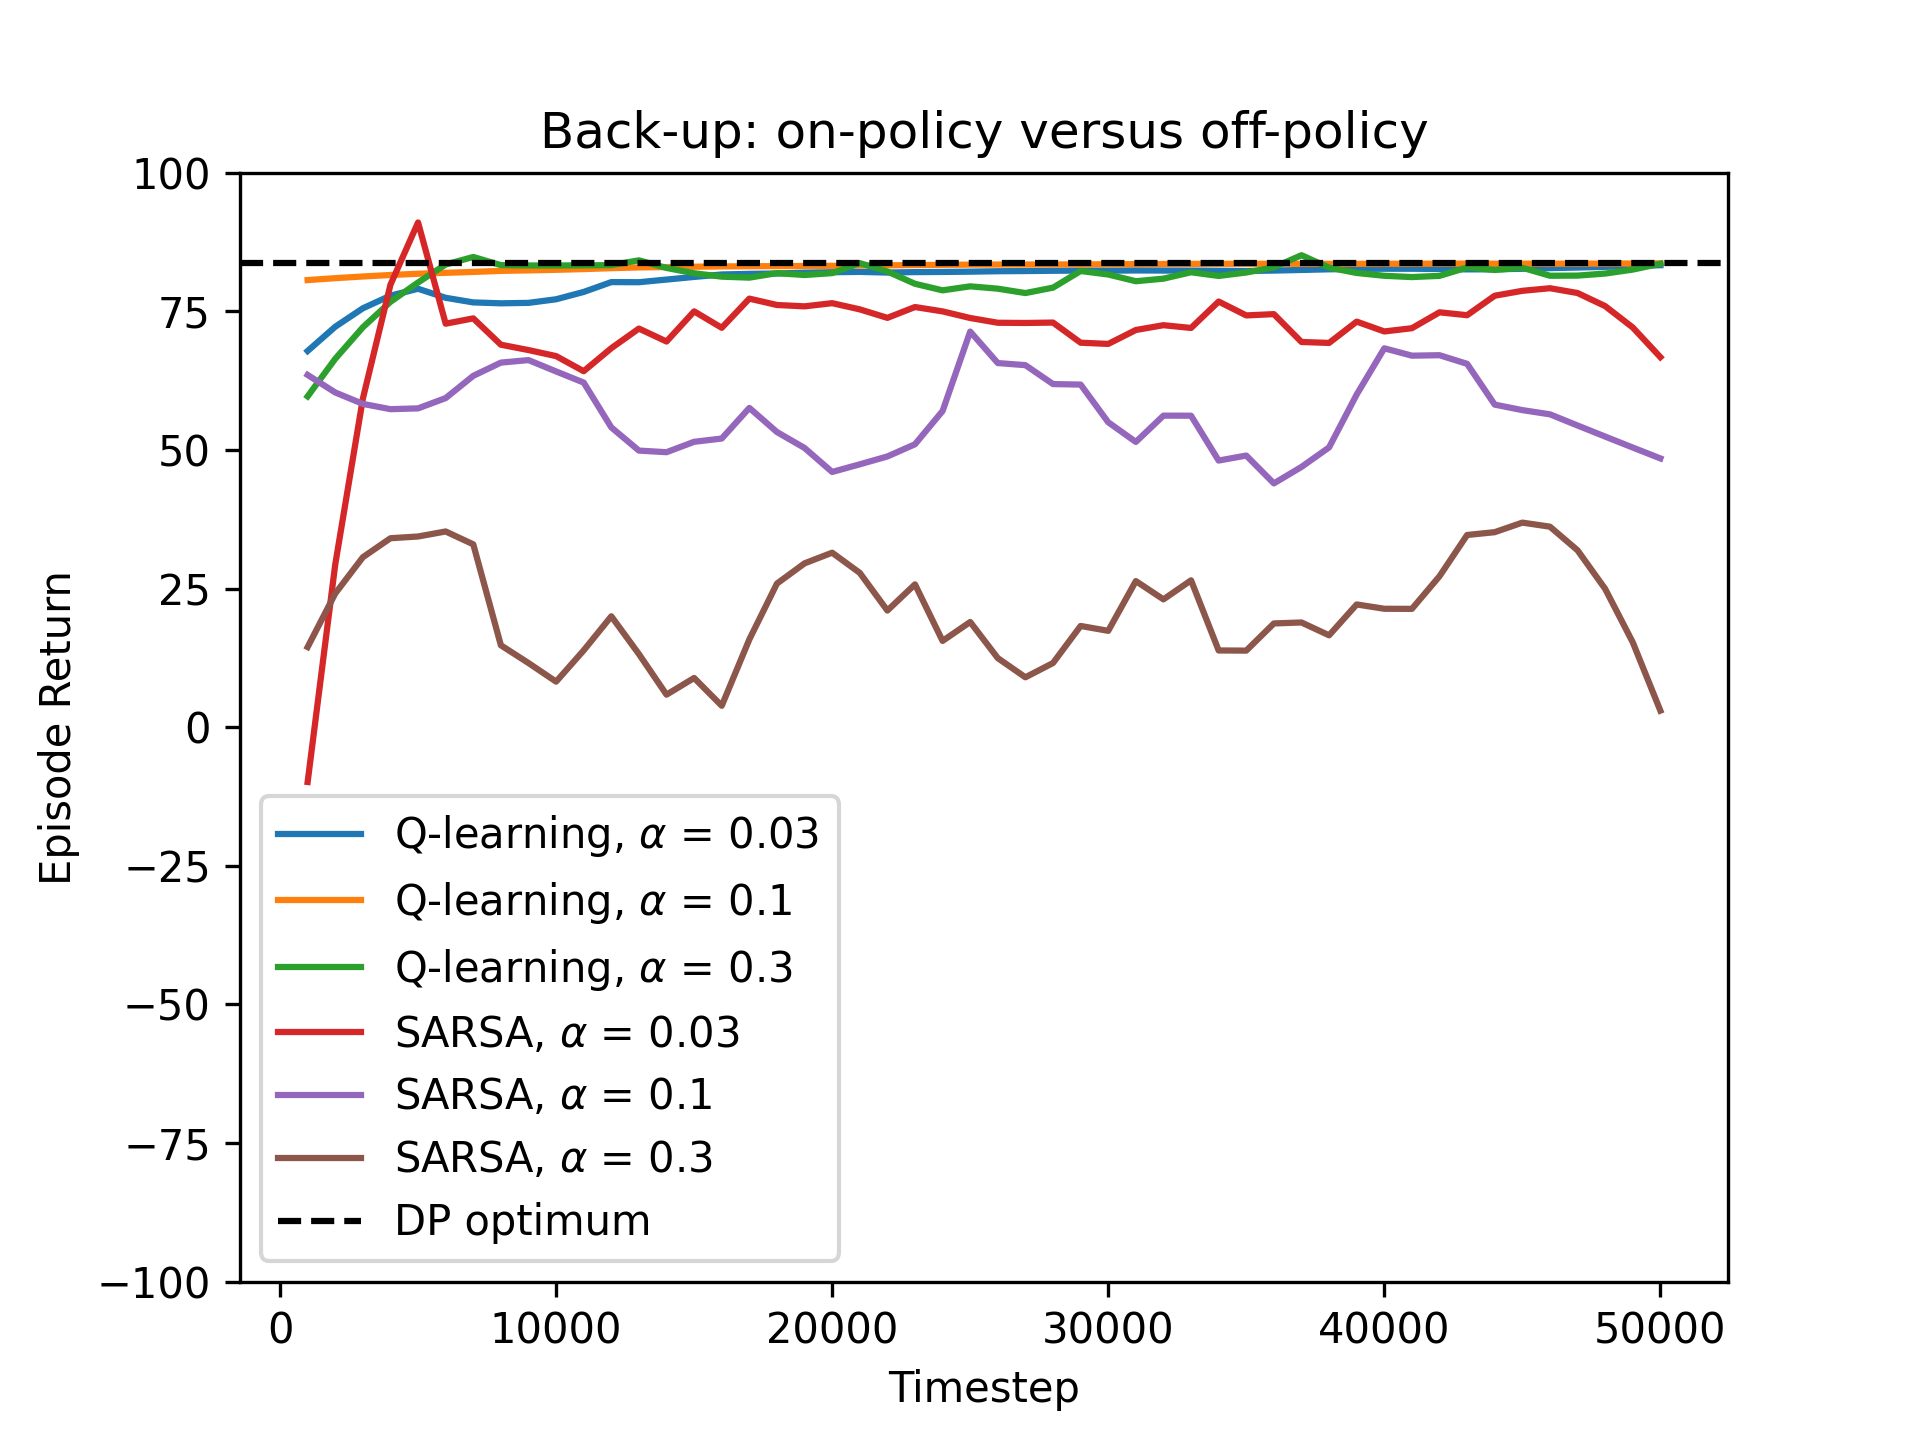
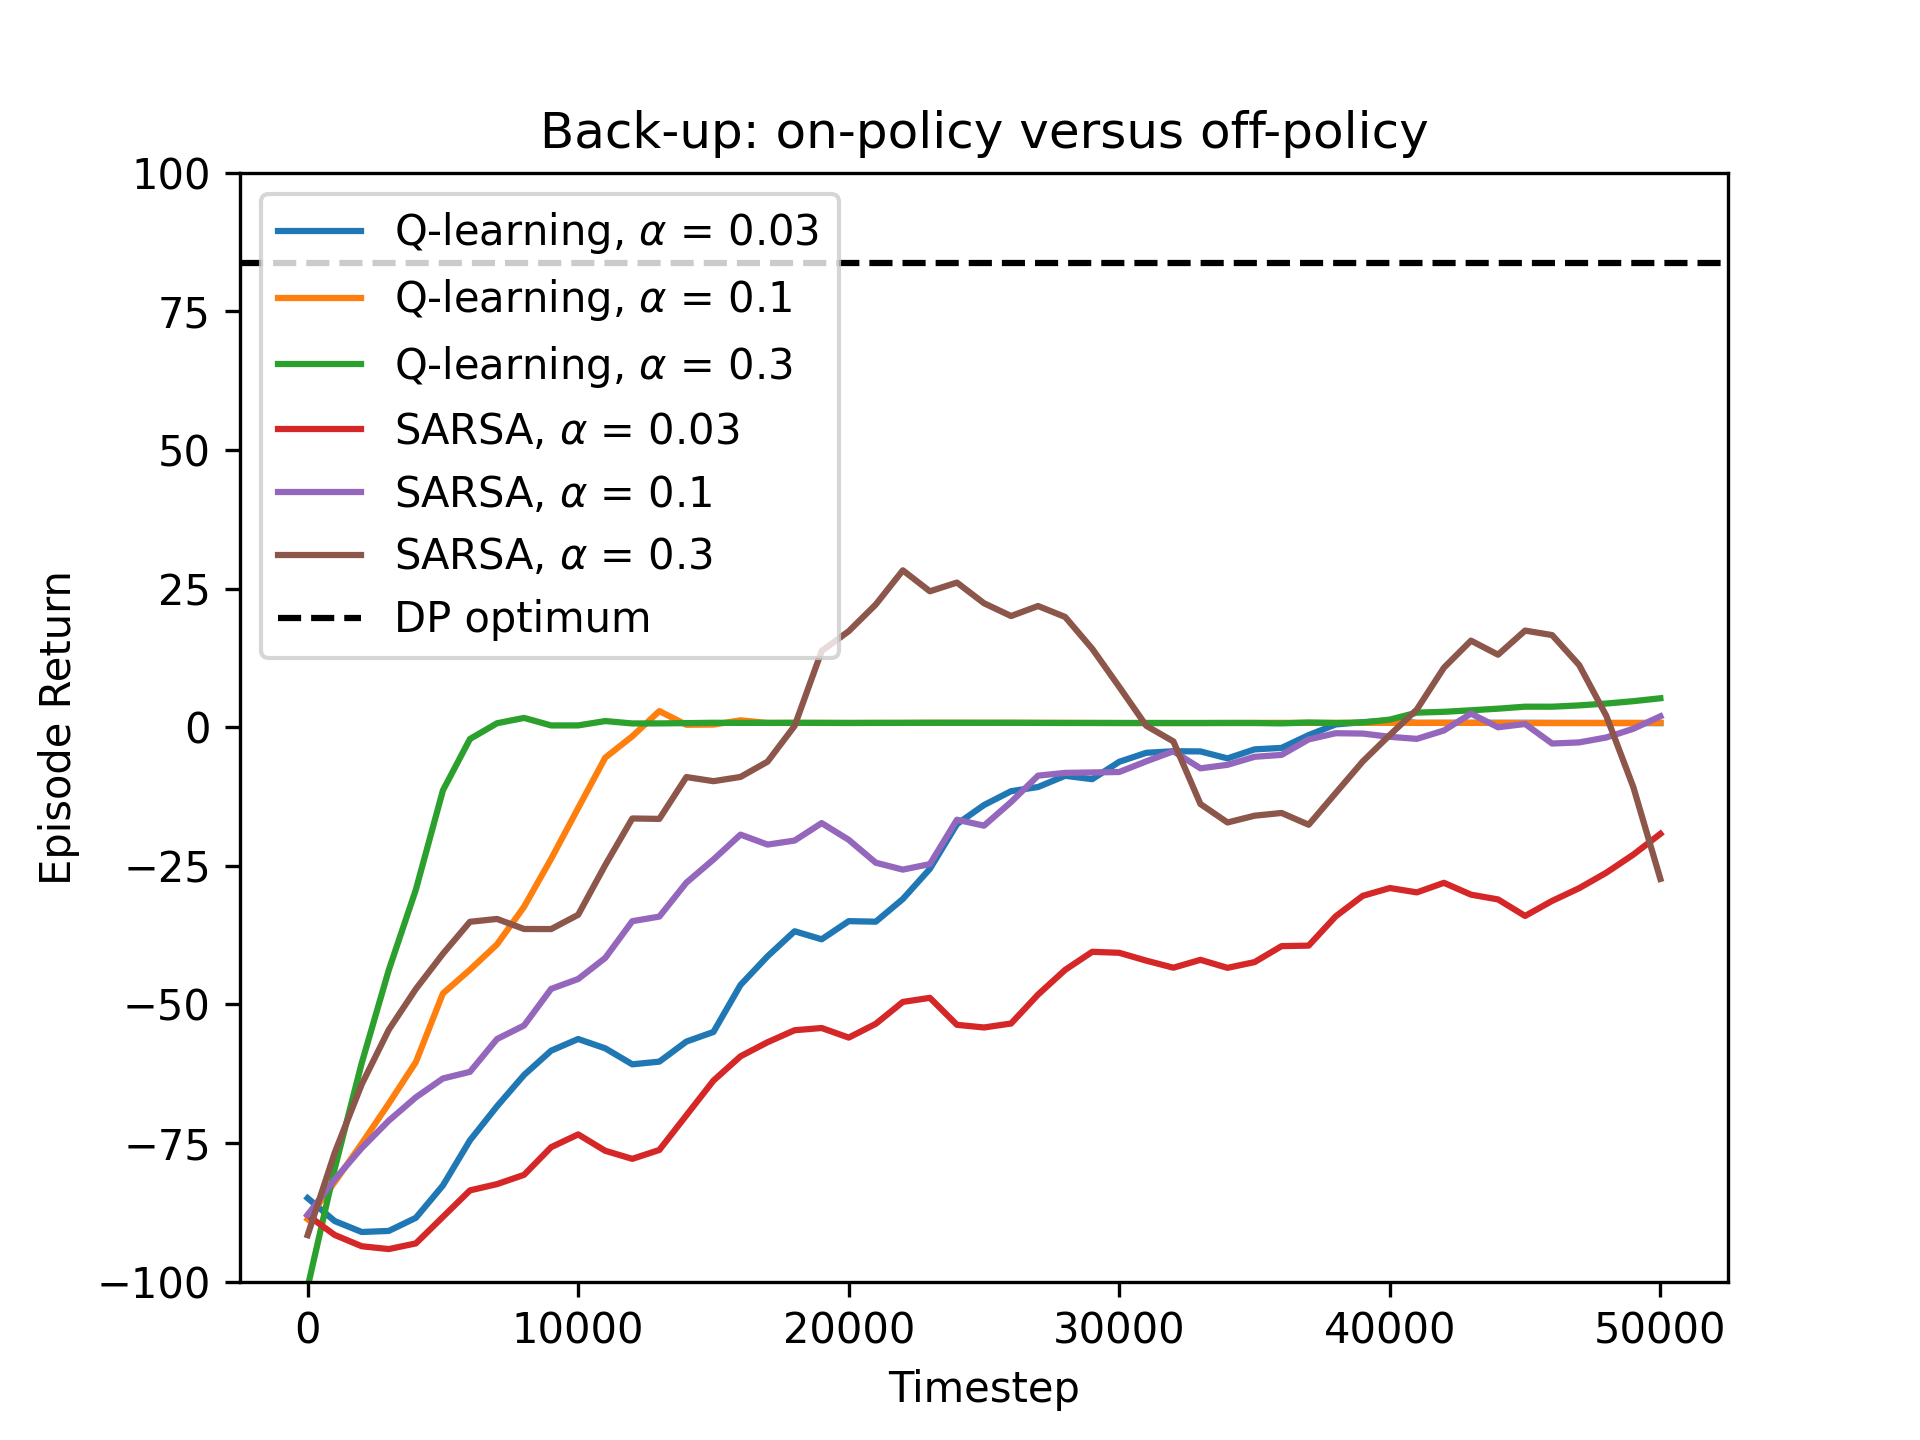
draft

diff --git a/Nstep_solution.py b/Nstep_solution.py
@@ -1,0 +1,107 @@
+#!/usr/bin/env python3
+# -*- coding: utf-8 -*-
+"""
+Practical for course 'Reinforcement Learning',
+Leiden University, The Netherlands
+By Thomas Moerland
+"""
+
+import numpy as np
+from Environment import StochasticWindyGridworld
+from Agent import BaseAgent
+
+class NstepQLearningAgent(BaseAgent):
+        
+    def update(self, states, actions, rewards, done, n):
+        ''' states is a list of states observed in the episode, of length T_ep + 1 (last state is appended)
+        actions is a list of actions observed in the episode, of length T_ep
+        rewards is a list of rewards observed in the episode, of length T_ep
+        done indicates whether the final s in states is was a terminal state '''
+        # TO DO: Add own code
+        T_ep = len(states) - 1  # Length of the episode
+
+        # Calculate n-step return
+        G = 0
+        for i in range(n):
+            if i < T_ep:
+                G += (self.gamma ** i) * rewards[i]
+
+        # If the episode is not done, add the estimated Q-value of the next state
+        if not done:
+            G += (self.gamma ** n) * np.max(self.Q_sa[states[T_ep]])
+
+        # Calculate the Q-value of the first state in the episode
+        Q_s_a = self.Q_sa[states[0]][actions[0]]
+
+        # Update the Q-value using the n-step return
+        delta = G - Q_s_a
+        self.Q_sa[states[0]][actions[0]] += self.learning_rate * delta
+
+        # Update Q-values for the rest of the states using the n-step return
+        for t in range(1, T_ep):
+            G = (G - rewards[t-1]) / self.gamma  # Update n-step return
+            Q_s_a = self.Q_sa[states[t]][actions[t]]
+            delta = G - Q_s_a
+            self.Q_sa[states[t]][actions[t]] += self.learning_rate * delta
+        
+        pass
+
+def n_step_Q(n_timesteps, max_episode_length, learning_rate, gamma, 
+                   policy='egreedy', epsilon=None, temp=None, plot=True, n=5, eval_interval=500):
+    ''' runs a single repetition of an MC rl agent
+    Return: rewards, a vector with the observed rewards at each timestep ''' 
+    
+    env = StochasticWindyGridworld(initialize_model=False)
+    eval_env = StochasticWindyGridworld(initialize_model=False)
+    pi = NstepQLearningAgent(env.n_states, env.n_actions, learning_rate, gamma)
+    eval_timesteps = []
+    eval_returns = []
+
+    # TO DO: Write your n-step Q-learning algorithm here!
+    timestep = 0
+    while timestep < n_timesteps:
+        s = env.reset()
+        states = [s]
+        rewards = []
+        actions = []
+        for t in range(max_episode_length):
+            a = pi.select_action(s=s, policy=policy, epsilon=epsilon, temp=temp)
+            s_next, r, done = env.step(a)
+            states.append(s_next)
+            rewards.append(r)
+            actions.append(a)
+            s = s_next
+            timestep += 1
+            if plot:
+                env.render(Q_sa=pi.Q_sa,plot_optimal_policy=True,step_pause=0.1) # Plot the Q-value estimates during n-step Q-learning execution
+            if timestep % eval_interval == 0:
+                eval_timesteps.append(timestep)
+                eval_returns.append(pi.evaluate(eval_env))
+            if done:
+                env.reset()
+                break
+
+        pi.update(states, actions, rewards, done, n)
+         
+    return np.array(eval_returns), np.array(eval_timesteps) 
+
+def test():
+    n_timesteps = 500001
+    max_episode_length = 1000
+    gamma = 1.0
+    learning_rate = 0.1
+    n = 5
+    
+    # Exploration
+    policy = 'egreedy' # 'egreedy' or 'softmax' 
+    epsilon = 0.2
+    temp = 1.0
+    
+    # Plotting parameters
+    plot = False
+    print(n_step_Q(n_timesteps, max_episode_length, learning_rate, gamma, 
+                   policy, epsilon, temp, plot, n=n))
+    
+    
+if __name__ == '__main__':
+    test()

diff --git a/MonteCarlo_solution.py b/MonteCarlo_solution.py
@@ -18,6 +18,16 @@ class MonteCarloAgent(BaseAgent):
         rewards is a list of rewards observed in the episode, of length T_ep
         done indicates whether the final s in states is was a terminal state '''
         # TO DO: Add own code
+        T_ep = len(states) - 1  # Length of the episode
+
+        G = 0  # Initialize return
+
+        # Update Q-values for each state-action pair in reverse order
+        for t in range(T_ep - 1, -1, -1):
+            G = self.gamma * G + rewards[t]
+            Q_s_a = self.Q_sa[states[t]][actions[t]]
+            delta = G - Q_s_a
+            self.Q_sa[states[t]][actions[t]] += self.learning_rate * delta
 
 def monte_carlo(n_timesteps, max_episode_length, learning_rate, gamma, 
                    policy='egreedy', epsilon=None, temp=None, plot=True, eval_interval=500):
@@ -31,11 +41,30 @@ def monte_carlo(n_timesteps, max_episode_length, learning_rate, gamma,
     eval_returns = []
 
     # TO DO: Write your Monte Carlo RL algorithm here!
-    
-    # if plot:
-    #    env.render(Q_sa=pi.Q_sa,plot_optimal_policy=True,step_pause=0.1) # Plot the Q-value estimates during Monte Carlo RL execution
+    timestep = 0
+    while timestep < n_timesteps:
+        s = env.reset()
+        states = [s]
+        rewards = []
+        actions = []
+        for t in range(max_episode_length):
+            a = pi.select_action(s=s, policy=policy, epsilon=epsilon, temp=temp)
+            s_next, r, done = env.step(a)
+            states.append(s_next)
+            rewards.append(r)
+            actions.append(a)
+            s = s_next
+            timestep += 1
+            if plot:
+                env.render(Q_sa=pi.Q_sa,plot_optimal_policy=True,step_pause=0.1) # Plot the Q-value estimates during n-step Q-learning execution
+            if timestep % eval_interval == 0:
+                eval_timesteps.append(timestep)
+                eval_returns.append(pi.evaluate(eval_env))
+            if done:
+                env.reset()
+                break
 
-                 
+        pi.update(states, actions, rewards)          
     return np.array(eval_returns), np.array(eval_timesteps) 
     
 def test():

diff --git a/SARSA_solution.py b/SARSA_solution.py
@@ -30,30 +30,29 @@ def sarsa(n_timesteps, learning_rate, gamma, policy='egreedy', epsilon=None, tem
     eval_returns = []
 
     # TO DO: Write your SARSA algorithm here!
-    for t in range(1, n_timesteps + 1):
-        state = env.reset()
+    state = env.reset()
+    for t in range(n_timesteps):
+        
+        # Choose action using select_action function
+        if policy=='greedy':
+            a = pi.select_action(state, 'greedy')
+            a_next = pi.select_action(state, 'greedy')
+        elif policy == 'egreedy':
+            a = pi.select_action(state, 'egreedy', epsilon=epsilon)
+            a_next = pi.select_action(state, 'egreedy', epsilon=epsilon)
+        elif policy == 'softmax':
+            a = pi.select_action(state, 'softmax', temp=temp)
+            a_next = pi.select_action(state, 'softmax', temp=temp)
 
-        while True:
-            # Choose action using select_action function
-            if policy=='greedy':
-                a = pi.select_action(state, 'greedy')
-                a_next = pi.select_action(state, 'greedy')
-            elif policy == 'egreedy':
-                a = pi.select_action(state, 'egreedy', epsilon=epsilon)
-                a_next = pi.select_action(state, 'egreedy', epsilon=epsilon)
-            elif policy == 'softmax':
-                a = pi.select_action(state, 'softmax', temp=temp)
-                a_next = pi.select_action(state, 'softmax', temp=temp)
+        next_state, reward, done = env.step(a)
 
-            next_state, reward, done = env.step(a)
+        # Update Q-values using the SARSA update rule
+        pi.update(state, a, reward, next_state, a_next, done)
 
-            # Update Q-values using the SARSA update rule
-            pi.update(state, a, reward, next_state, a_next, done)
-
+        if done:
+            env.reset()
+        else:
             state = next_state
-
-            if done:
-                break
 
         if plot:
             env.render(Q_sa=pi.Q_sa, plot_optimal_policy=True, step_pause=0.1) 

diff --git a/Experiment.py b/Experiment.py
@@ -11,8 +11,8 @@ import time
 
 from Q_learning_solution import q_learning
 from SARSA_solution import sarsa
-"""from Nstep_solution import n_step_Q
-from MonteCarlo_solution import monte_carlo"""
+from Nstep_solution import n_step_Q
+from MonteCarlo_solution import monte_carlo
 from Helper import LearningCurvePlot, smooth
 
 def average_over_repetitions(backup, n_repetitions, n_timesteps, max_episode_length, learning_rate, gamma, policy='egreedy', 
@@ -94,7 +94,7 @@ def experiment():
                                               gamma, policy, epsilon, temp, smoothing_window, plot, n, eval_interval)
         Plot.add_curve(timesteps,learning_curve,label=r'softmax, $ \tau $ = {}'.format(temp))
     Plot.add_hline(optimal_episode_return, label="DP optimum")
-    Plot.save('exploration.png')'''
+    Plot.save('exploration.png')
     
     optimal_episode_return = 83.68
     ###### Assignment 3: Q-learning versus SARSA
@@ -110,9 +110,10 @@ def experiment():
                                               gamma, policy, epsilon, temp, smoothing_window, plot, n, eval_interval)
             Plot.add_curve(timesteps,learning_curve,label=r'{}, $\alpha$ = {} '.format(backup_labels[backup],learning_rate))
     Plot.add_hline(optimal_episode_return, label="DP optimum")
-    Plot.save('on_off_policy.png')
+    Plot.save('on_off_policy.png')'''
     
-    """ # ##### Assignment 4: Back-up depth
+    optimal_episode_return = 83.68
+    # ##### Assignment 4: Back-up depth
     policy = 'egreedy'
     epsilon = 0.05 # set epsilon back to original value
     learning_rate = 0.1
@@ -129,7 +130,7 @@ def experiment():
                                           gamma, policy, epsilon, temp, smoothing_window, plot, n, eval_interval)
     Plot.add_curve(timesteps,learning_curve,label='Monte Carlo')        
     Plot.add_hline(optimal_episode_return, label="DP optimum")
-    Plot.save('depth.png')"""
+    Plot.save('depth.png')
 
 if __name__ == '__main__':
     experiment()

diff --git a/DynamicProgramming_solution.py b/DynamicProgramming_solution.py
@@ -42,10 +42,11 @@ def Q_value_iteration(env, gamma=1.0, threshold=0.001):
  
      # TO DO: IMPLEMENT Q-VALUE ITERATION HERE
     i = 0
-
+    
     while True:
         i += 1
-        max_error = 0  # Reset max_error for each iteration
+        # Reset max_error for each iteration
+        max_error = 0
         
         for s in range(QIagent.n_states):  
             for a in range(QIagent.n_actions):  
@@ -54,6 +55,9 @@ def Q_value_iteration(env, gamma=1.0, threshold=0.001):
                 
                 # Update max_error if the current error is larger
                 max_error = max(max_error, error)
+
+                if(max_error < threshold):
+                    break
 
         # Plot current Q-value estimates & print max error
         env.render(Q_sa=QIagent.Q_sa,plot_optimal_policy=True,step_pause=0.2)
@@ -90,7 +94,6 @@ def experiment():
         time_steps += 1
 
     mean_reward_per_timestep = cum_reward / time_steps
-    print(cum_reward)
     # TO DO: Compute mean reward per timestep under the optimal policy
     print("Mean reward per timestep under optimal policy: {}".format(mean_reward_per_timestep))
     

diff --git a/Q_learning_solution.py b/Q_learning_solution.py
@@ -30,7 +30,7 @@ def q_learning(n_timesteps, learning_rate, gamma, policy='egreedy', epsilon=None
     
     # TO DO: Write your Q-learning algorithm here!
     state = env.reset()
-    for t in range(1, n_timesteps + 1):
+    for t in range(n_timesteps):
         
         if policy=='greedy':
             a = agent.select_action(state, 'greedy')
@@ -41,8 +41,6 @@ def q_learning(n_timesteps, learning_rate, gamma, policy='egreedy', epsilon=None
 
         next_state, reward, done = env.step(a)
             
-
-
         # Update Q-values using the Q-learning update rule
         agent.update(state, a, reward, next_state, done)
 

diff --git a/Environment.py b/Environment.py
@@ -34,7 +34,7 @@ class StochasticWindyGridworld:
         self.wind_blows_proportion = 0.9         
 
         self.reward_per_step = -1.0 # default reward on every step that does not reach a goal
-        self.goal_locations = [[6, 2]] # [[6,2]] a vector specifying the goal locations in [[x1,y1],[x2,y2]] format
+        self.goal_locations = [[7, 3]] # [[6,2]] a vector specifying the goal locations in [[x1,y1],[x2,y2]] format
         self.goal_rewards = [100] # a vector specifying the associated rewards with the goals in self.goal_locations, in [r1,r2] format
         
         # Initialize model
